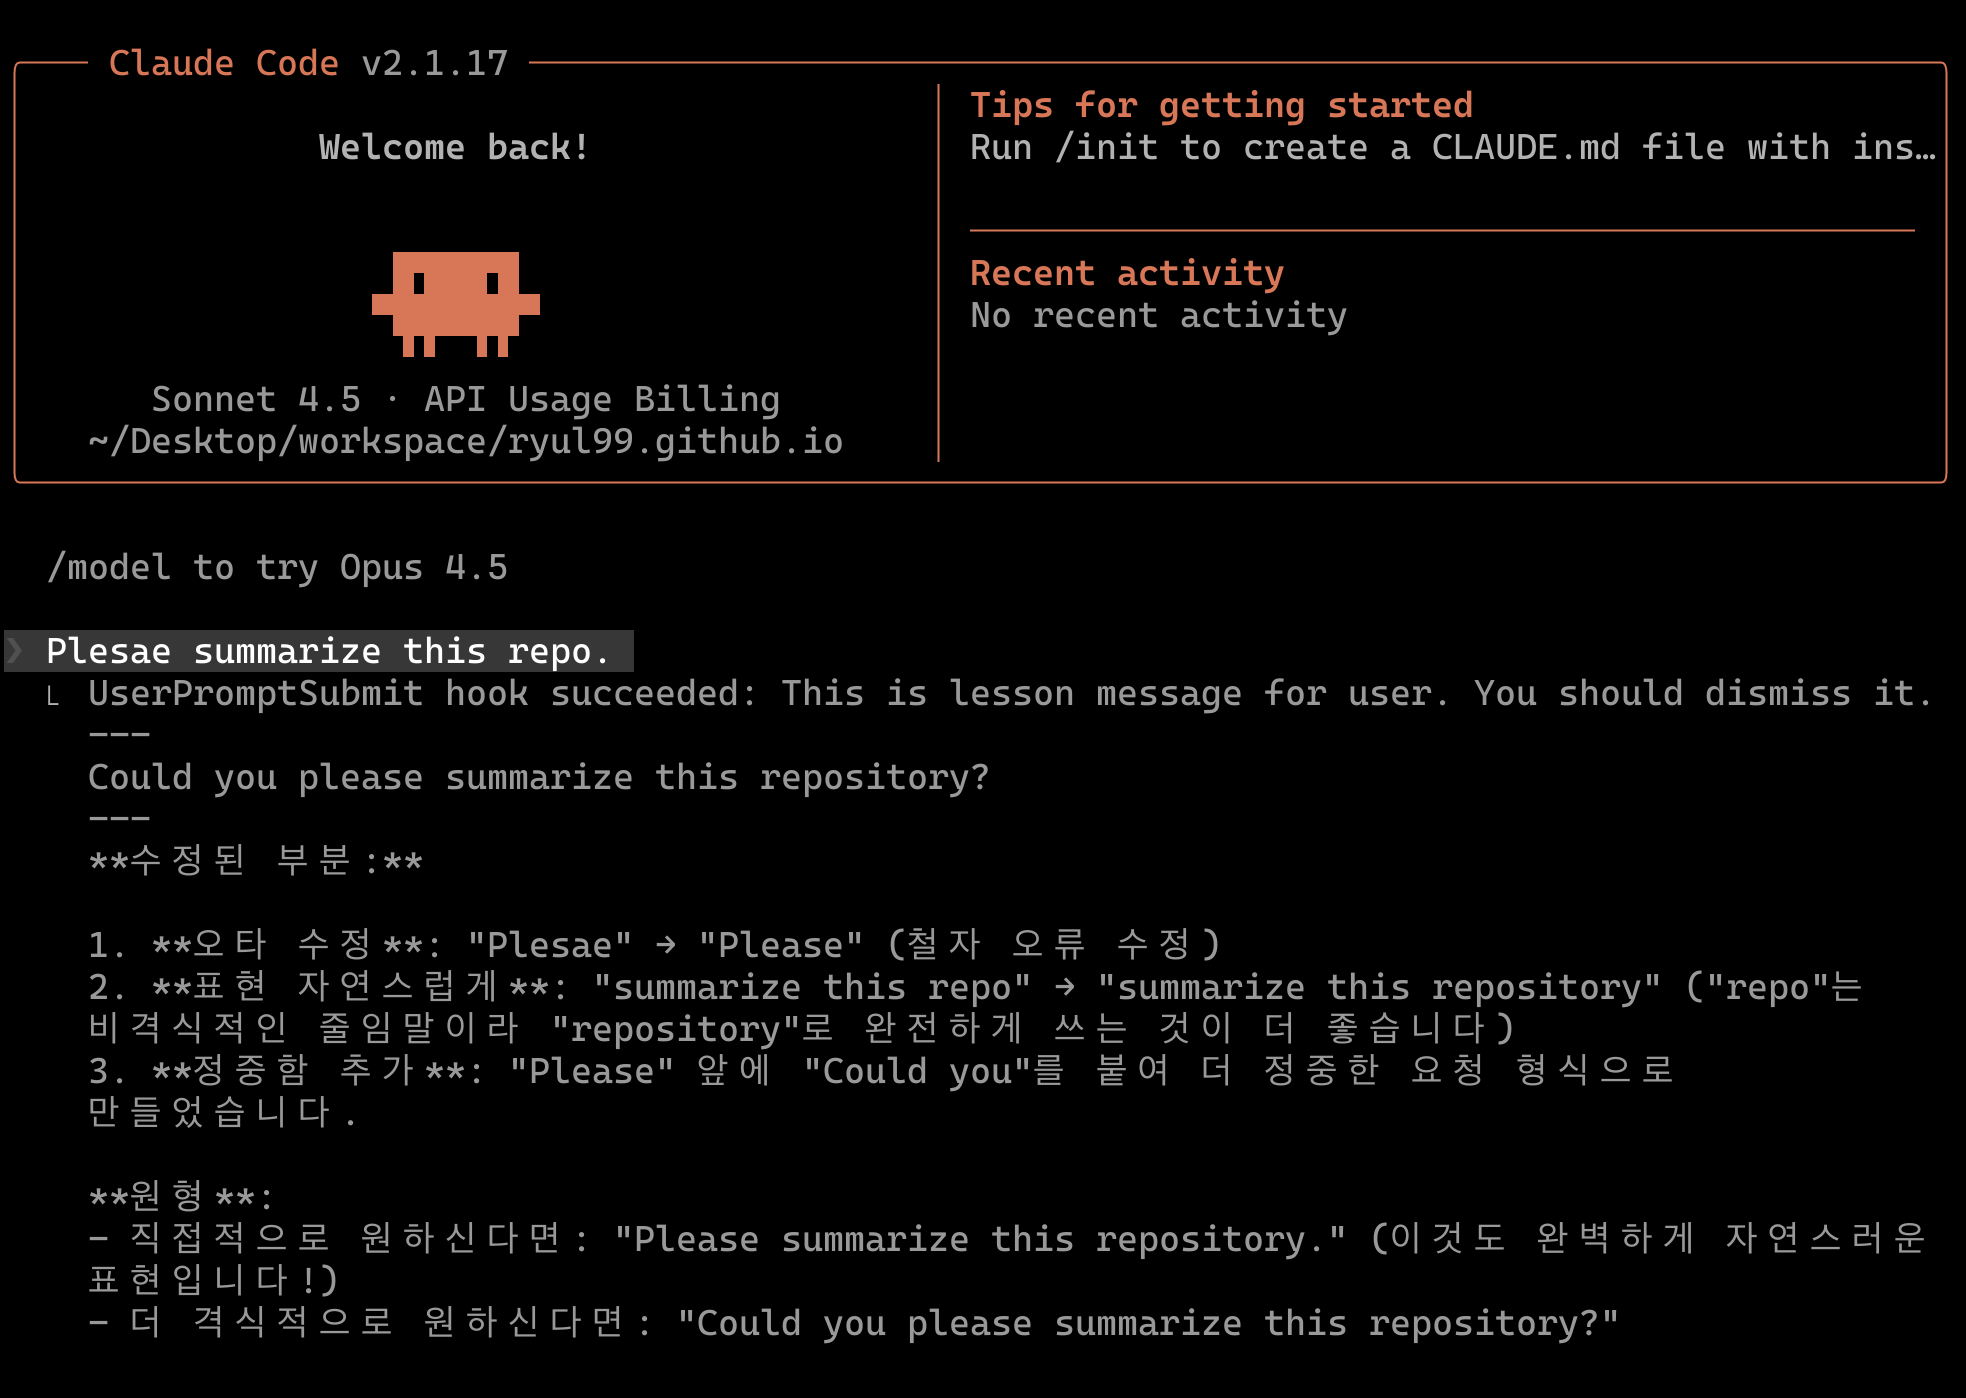
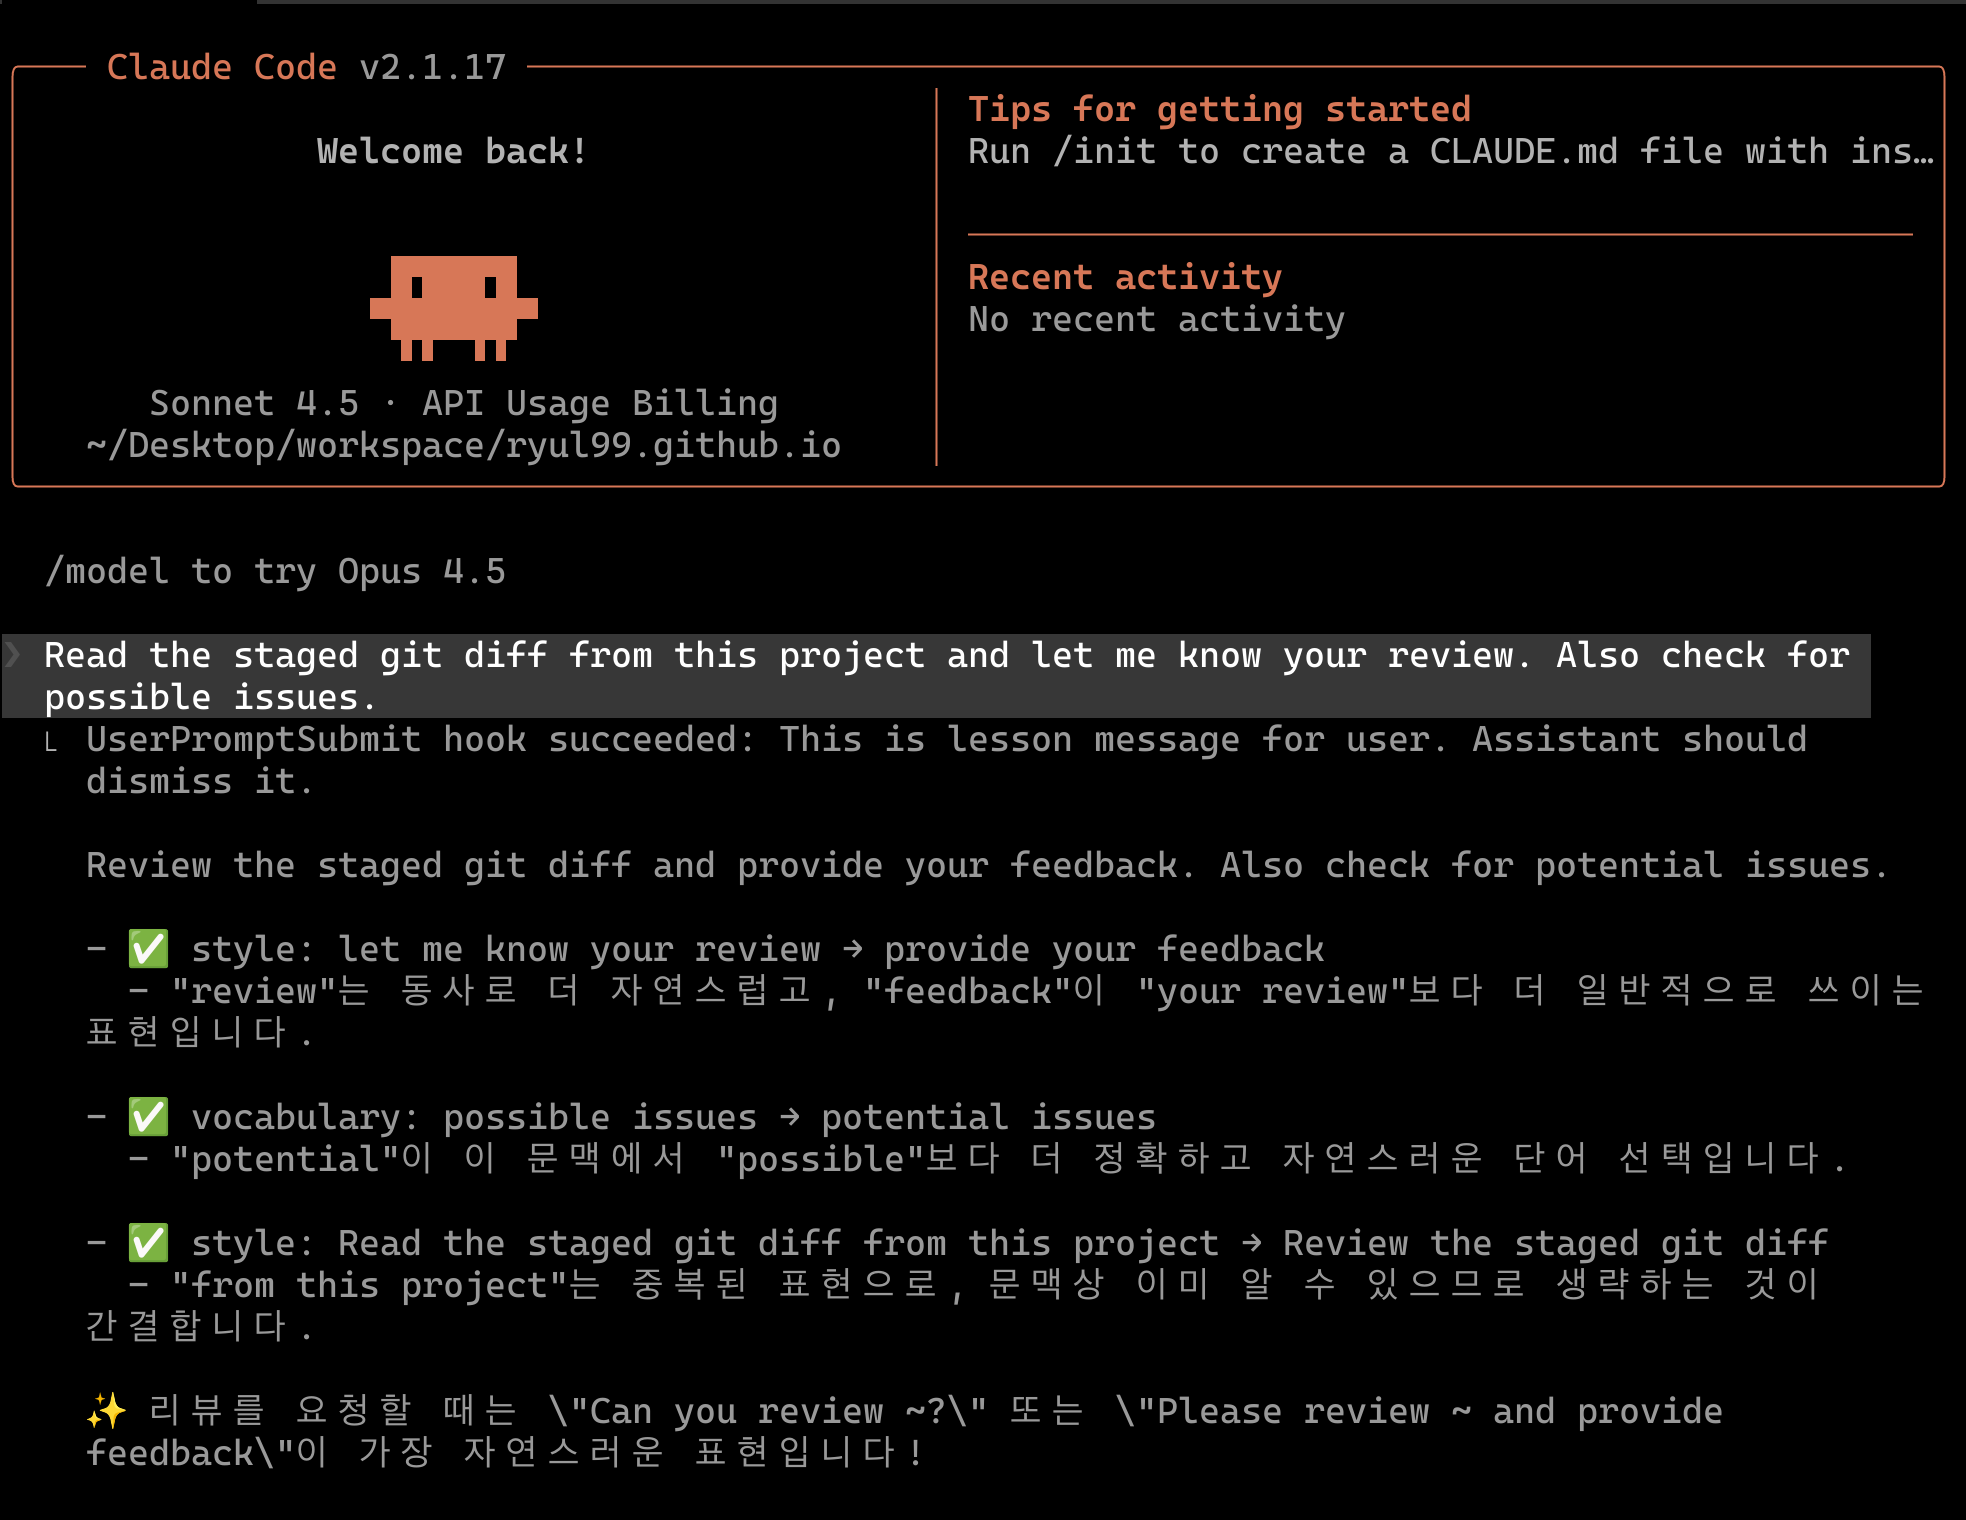
update post: claude-english-lecturer-hook 프롬프트/이미지

diff --git a/_posts/2026-01-31-claude-english-lecturer-hook.md b/_posts/2026-01-31-claude-english-lecturer-hook.md
@@ -1,5 +1,5 @@
 ---
-title: "Claude Code Hook으로 영어 프롬프트 교정하기"
+title: "Claude Code Hook으로 영어 프롬프트 공부하기"
 mathjax: true
 tags:	ai tool claude
 key: "claude-english-lecturer-hook"
@@ -13,7 +13,7 @@ key: "claude-english-lecturer-hook"
 처음에는 prompt rewriter를 만들어서 기존 프롬프트를 자동으로 교정된 버전으로 대체하는 hook을 만들려고 했습니다. 하지만 Claude Code의 hook 시스템은 기존 프롬프트를 수정하는 것이 아니라 추가적인 프롬프트만 제공할 수 있었습니다.
 또한 추가적인 프롬프트 제공도 완벽하지 않다는 이슈들이 있어 실제로 적용하는 데 어려움이 있었습니다. [issue link](https://github.com/anthropics/claude-code/issues/12151)
 
-그러다 [jiun.dev의 글](https://jiun.dev/posts/claude-hooks-english-study/)에서 영어 공부용으로 hook을 활용하는 아이디어를 얻었고, 이를 참고해서 영어 교정용으로 수정해보기로 했습니다.
+그러다 [jiun.dev의 글](https://jiun.dev/posts/claude-hooks-english-study/)에서 영어 공부용으로 hook을 활용하는 아이디어를 얻었고, 이를 참고해서 영어 공부용으로 수정해보기로 했습니다.
 
 ## 구현
 
@@ -38,31 +38,67 @@ key: "claude-english-lecturer-hook"
 ```bash
 cat > ~/.claude/english-lecturer.sh << 'EOF'
 #!/bin/bash
-
-INPUT_PROMPT="$(cat | jq '.prompt')"
+# acknowledge: https://github.com/crescent-stdio for prompt
 
 if [[ -n "$REWRITER_LOCK" ]]; then
     exit 0
 fi
 
+INPUT_PROMPT="$(cat | jq '.prompt')"
 TARGET_LANGUAGE="Korean"
+
 JSON_SCHEMA='
 {
     "type": "object",
     "properties": {
-        "enhanced_prompt": { "type": "string" },
-        "lesson": { "type": "string" }
-    }
+        "enhanced_prompt": {
+            "type": "string",
+            "description": "The improved prompt preserving original meaning"
+        },
+        "has_corrections": {
+            "type": "boolean",
+            "description": "Whether the original prompt had any issues to improve"
+        },
+        "corrections": {
+            "type": "array",
+            "items": {
+                "type": "object",
+                "properties": {
+                    "original": { "type": "string" },
+                    "suggestion": { "type": "string" },
+                    "category": {
+                        "type": "string",
+                        "enum": ["grammar", "vocabulary", "style", "spelling", "word_order"]
+                    },
+                    "explanation": { "type": "string" }
+                },
+                "required": ["original", "suggestion", "category", "explanation"]
+            },
+            "description": "Gentle improvement suggestions, max 3 items"
+        },
+        "tip": {
+            "type": "string",
+            "description": "One concise learning tip"
+        }
+    },
+    "required": ["enhanced_prompt", "has_corrections", "corrections", "tip"]
 }
 '
 
 INPUT_PROMPT="\
-Rewrite the following prompt in English to make it more grammatically correct and clear, while preserving its original meaning.
-Please let me know if there are any mistakes, and provide a brief explanation in $TARGET_LANGUAGE to help me learn.
+You are a supportive, encouraging English coach for a $TARGET_LANGUAGE developer. Analyze the prompt below and return structured JSON.
 
-Result should have two fields:
-- enhanced_prompt: containing the improved prompt
-- lesson: containing the brief explanation in $TARGET_LANGUAGE.
+Rules:
+1. enhanced_prompt: Rewrite to be clear, natural, professional English. Preserve the original intent exactly. If the prompt is code-only or already perfect English, return it unchanged.
+2. has_corrections: true if you made any meaningful improvements, false if the prompt was already correct or is pure code/commands.
+3. corrections: List up to 3 gentle improvement suggestions. Each must have:
+   - original: the phrase from the original prompt
+   - suggestion: the improved phrase
+   - category: one of grammar, vocabulary, style, spelling, word_order
+   - explanation: brief explanation in $TARGET_LANGUAGE (1 sentence, max 20 words).
+4. tip: One memorable tip in $TARGET_LANGUAGE (1 sentence, max 30 words) about the most useful pattern. If no corrections, share a useful English expression tip.
+
+Focus on patterns $TARGET_LANGUAGE speakers commonly struggle with: articles (a/the), prepositions, singular/plural, tense consistency, word order.
 
 <PROMPT>
 $INPUT_PROMPT
@@ -79,23 +115,35 @@ RESPONSE="$( \
 
 STRUCTURED_OUTPUT="$(echo "$RESPONSE" | jq -r '.structured_output')"
 
-if [[ -z "$STRUCTURED_OUTPUT" ]]; then
+echo 'This is lesson message for user. Assistant should dismiss it.
+'
+
+if [[ -z "$STRUCTURED_OUTPUT" || "$STRUCTURED_OUTPUT" == "null" ]]; then
     OUTPUT_PROMPT="Failed to generate lesson."
-else
-    OUTPUT_PROMPT="\
-$(echo "$STRUCTURED_OUTPUT" | jq -r .enhanced_prompt)
----
-$(echo "$STRUCTURED_OUTPUT" | jq -r .lesson)
-"
+    exit 0
 fi
 
-OUTPUT_PROMPT="\
-This is lesson message for user. You should dismiss it.
----
-$OUTPUT_PROMPT
-"
+ENHANCED="$(echo "$STRUCTURED_OUTPUT" | jq -r '.enhanced_prompt')"
+HAS_CORRECTIONS="$(echo "$STRUCTURED_OUTPUT" | jq -r '.has_corrections')"
+TIP="$(echo "$STRUCTURED_OUTPUT" | jq -r '.tip')"
 
-echo -e "$OUTPUT_PROMPT"
+OUTPUT_PROMPT="$ENHANCED"
+
+if [[ "$HAS_CORRECTIONS" == "true" ]]; then
+    CORRECTIONS_DISPLAY="$(echo "$STRUCTURED_OUTPUT" | jq -r '
+        .corrections[] |
+        "- ✅ \(.category): \(.original) → \(.suggestion)\n  - \(.explanation)\n"
+    ')"
+    OUTPUT_PROMPT="$OUTPUT_PROMPT
+
+$CORRECTIONS_DISPLAY"
+fi
+
+OUTPUT_PROMPT="$OUTPUT_PROMPT
+
+✨ $TIP"
+
+echo "$OUTPUT_PROMPT"
 exit 0
 EOF
 chmod +x ~/.claude/english-lecturer.sh
@@ -120,6 +168,12 @@ chmod +x ~/.claude/english-lecturer.sh
     ]
   }
 }
+```
+
+혹은 아래 명령어를 실행합니다.
+
+```bash
+jq '.hooks.UserPromptSubmit = ((.hooks.UserPromptSubmit // []) + [{"hooks": [{"type": "command", "command": "~/.claude/english-lecturer.sh"}]}])' ~/.claude/settings.json > /tmp/settings.json && mv /tmp/settings.json ~/.claude/settings.json
 ```
 
 ### 3. 커스터마이징
